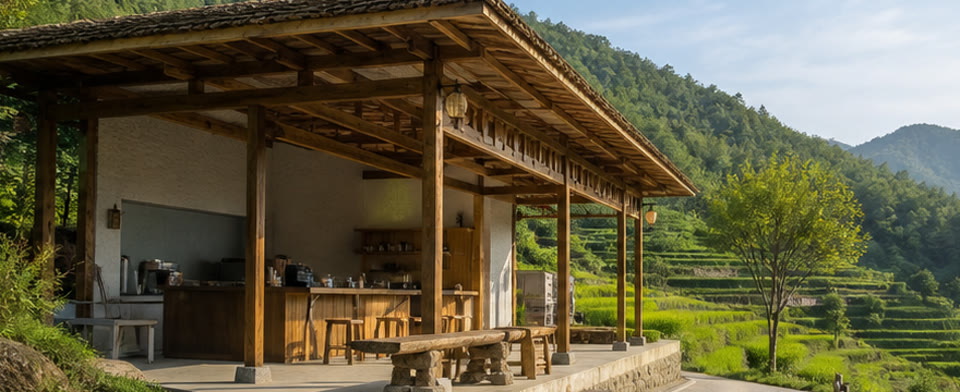
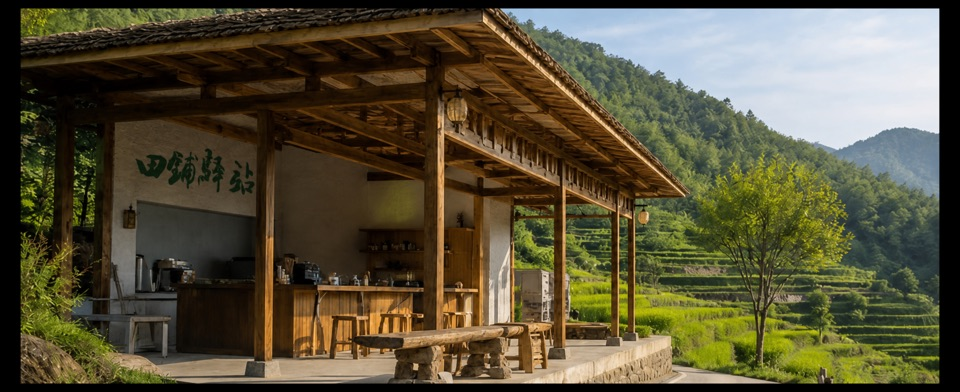
feat(miniprogram): add tianpu station signage image

diff --git a/docs/image-sources.md b/docs/image-sources.md
@@ -72,7 +72,7 @@
   - 生成原因：一期农品预购为拟建设供应链，暂无统一授权商品摄影
 - `miniprogram/assets/photos/ai-map-tianpu-station.jpg`
   - 用途：田铺驿站地图点位和首页服务推荐
-  - 生成原因：暂未取得田铺驿站可上线授权实拍图，先用生成图占位
+  - 生成原因：暂未取得田铺驿站可上线授权实拍图，先用生成图占位；2026-08-01 根据用户提供的田铺驿站标识参考图，将绿色书法标识合成到驿站墙面
 - `miniprogram/assets/photos/ai-map-hailin-creek.jpg`
   - 用途：海林·溪谷地图点位、首页推荐和 AI 导游入口氛围图
   - 生成原因：暂未取得海林·溪谷可上线授权实拍图，先用生成图占位
